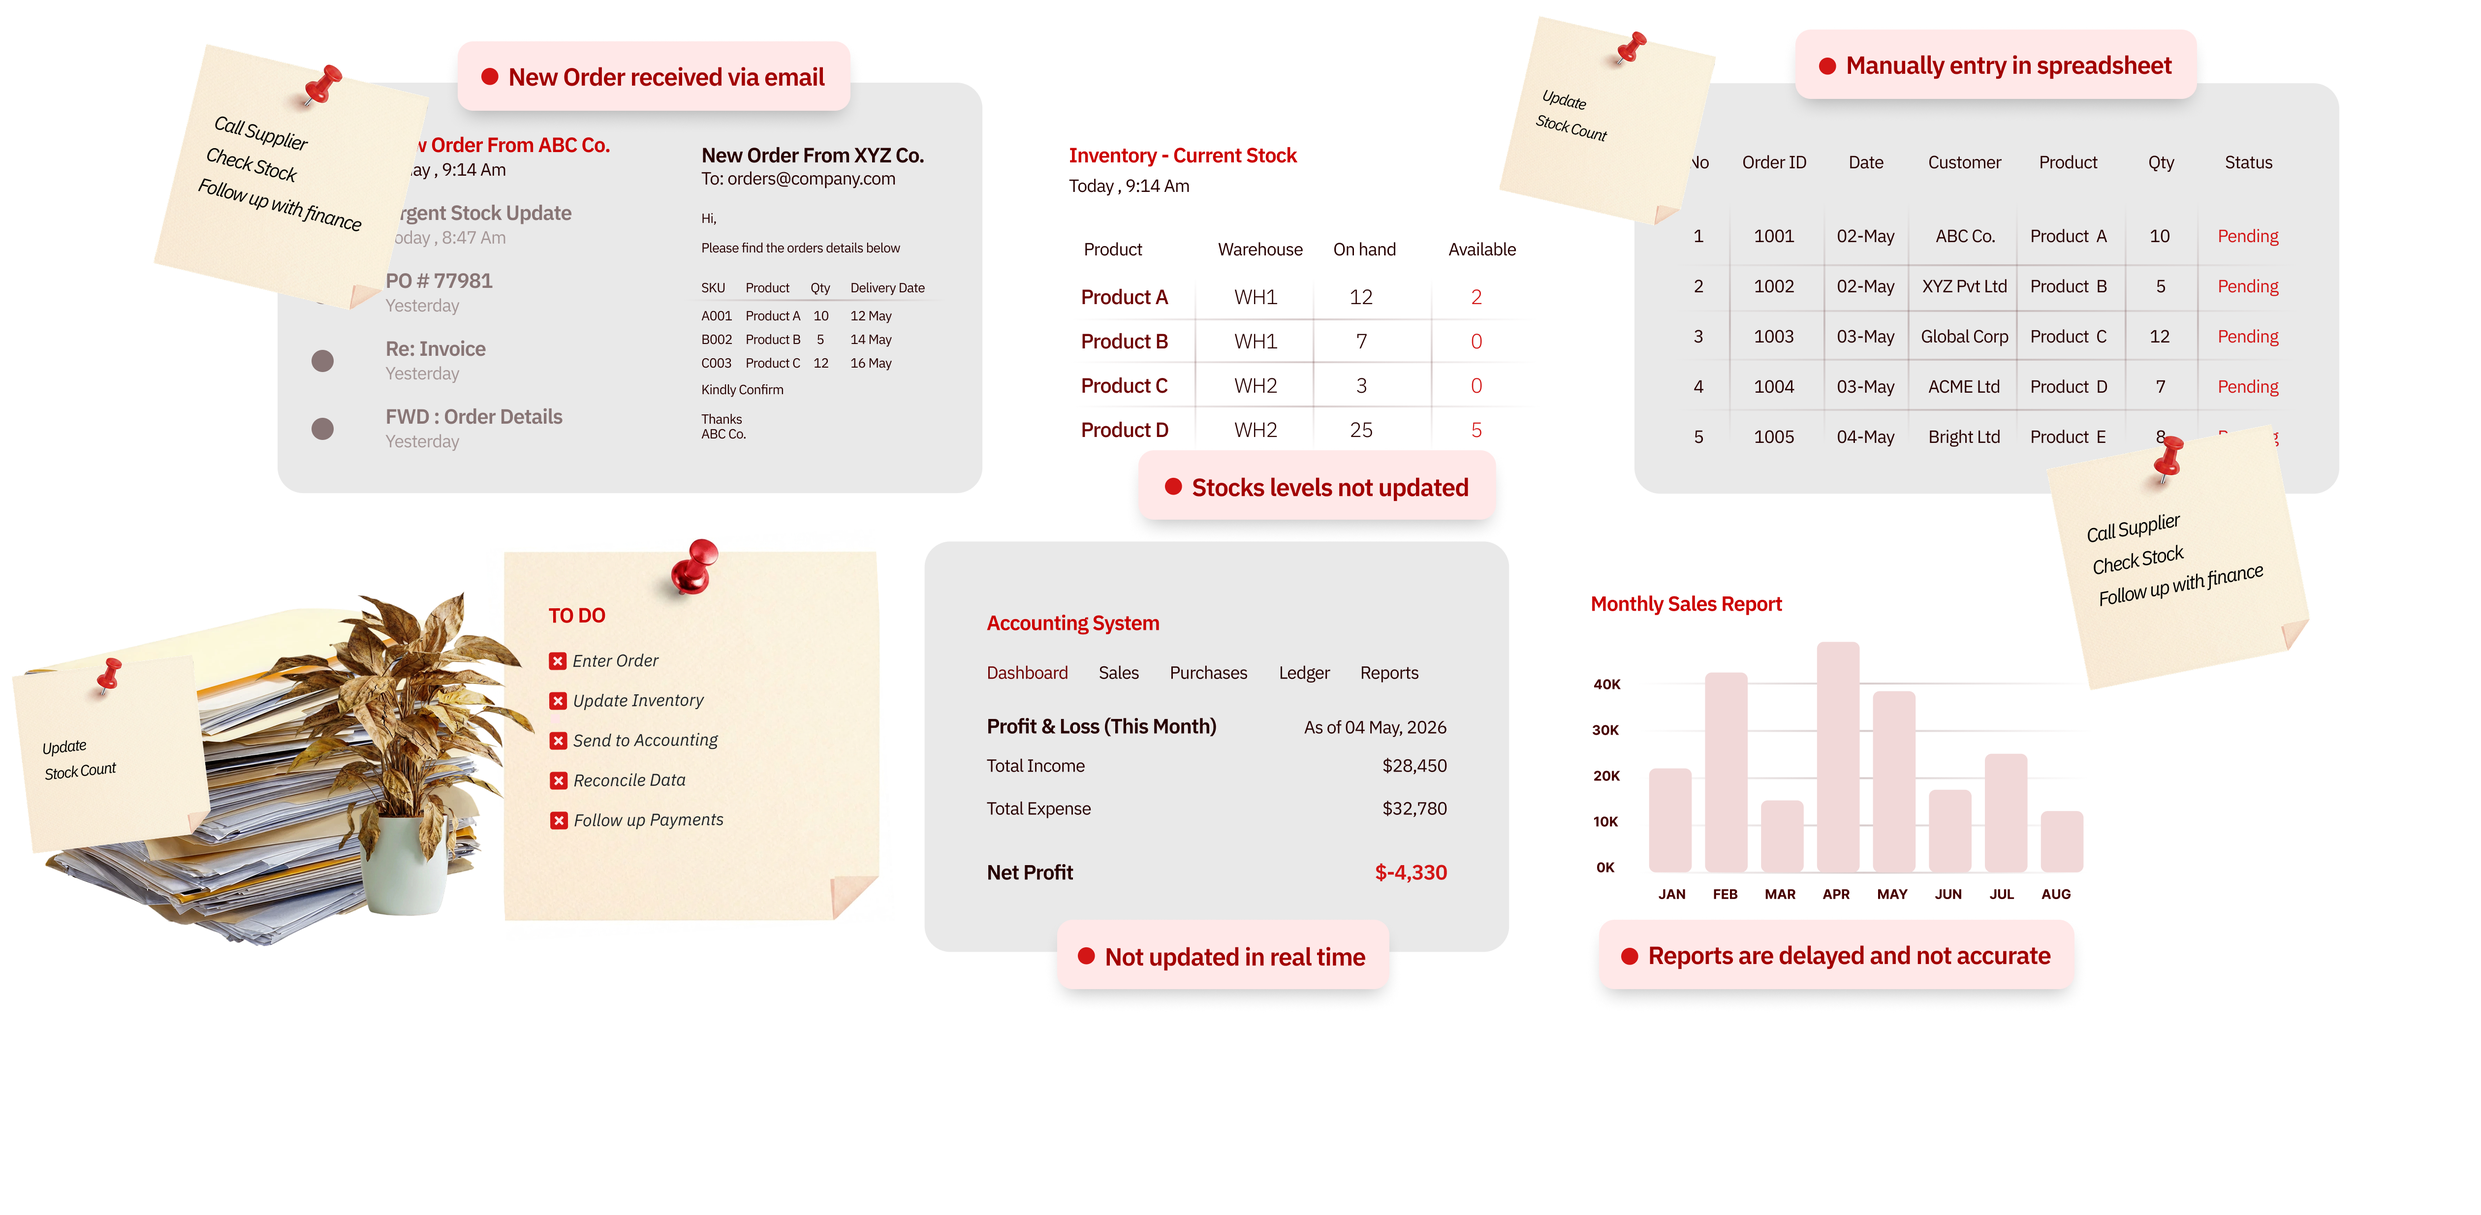
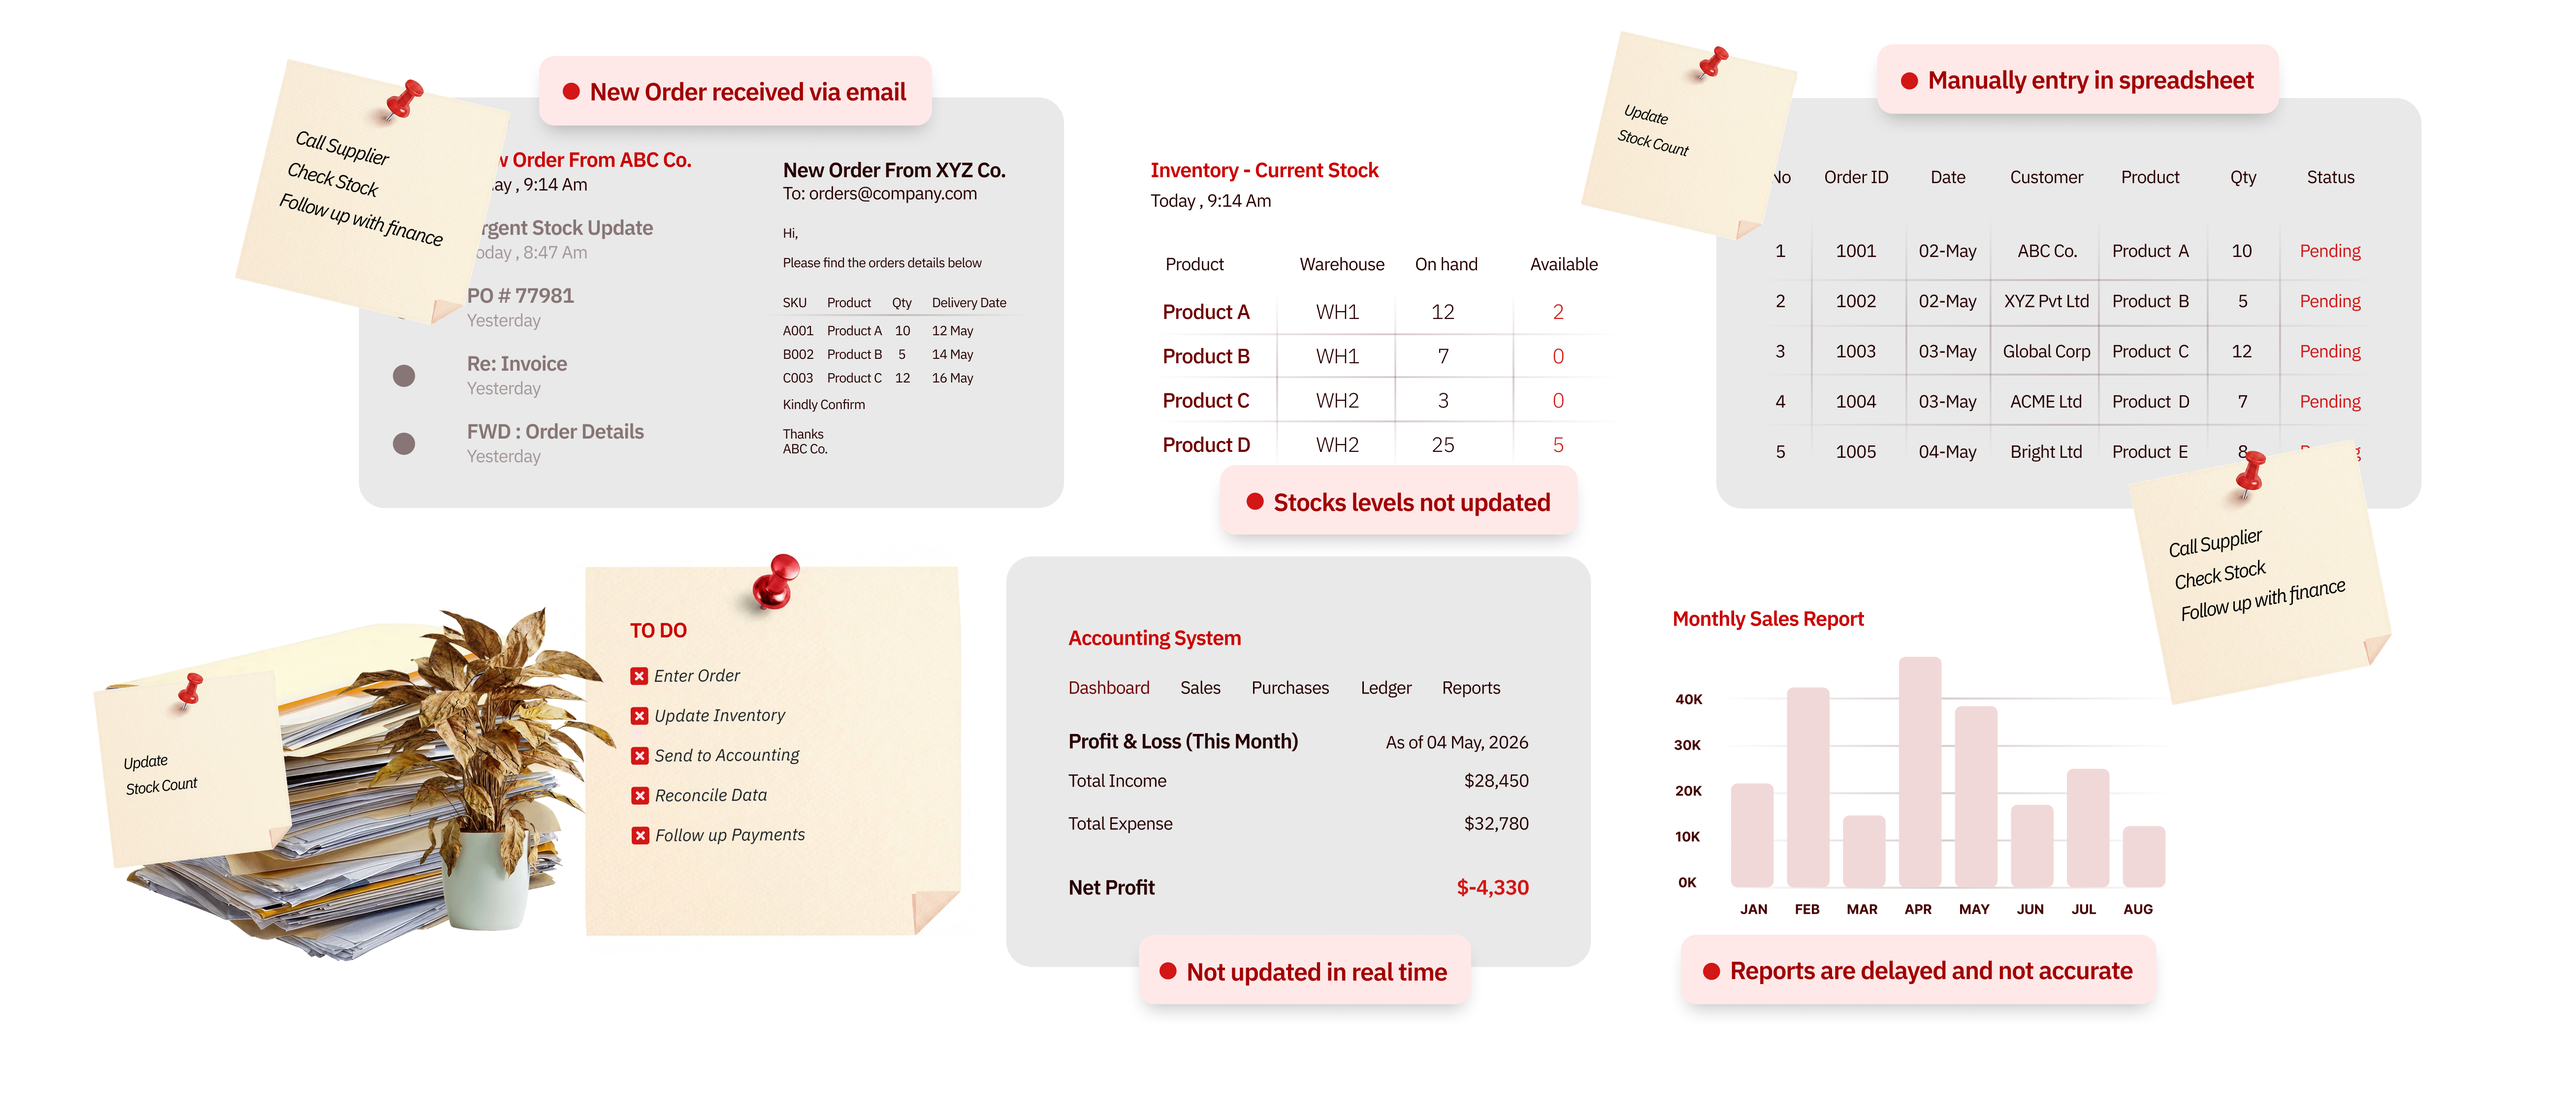
Feedback done 4

diff --git a/resources/views/components/footer.blade.php b/resources/views/components/footer.blade.php
@@ -128,8 +128,6 @@
     ];
 
     $modules = [
-        ['name' => 'Compliance & Traceability', 'icon' => 'fa-clipboard-check', 'slug' => 'compliance'],
-        ['name' => 'Contracts & Progress Claims', 'icon' => 'fa-file-signature', 'slug' => 'contracts'],
         ['name' => 'Customer Management', 'icon' => 'fa-users-gear', 'slug' => 'crm'],
         ['name' => 'Finance & Accounting', 'icon' => 'fa-calculator', 'slug' => 'finance'],
         ['name' => 'Inventory Management', 'icon' => 'fa-boxes-stacked', 'slug' => 'inventory'],
@@ -141,10 +139,12 @@
         ['name' => 'Quoting & Estimating', 'icon' => 'fa-file-lines', 'slug' => 'quoting-and-estimating'],
         ['name' => 'Resource Planning', 'icon' => 'fa-calendar-check', 'slug' => 'resource-planning'],
         ['name' => 'Scheduling & Dispatch', 'icon' => 'fa-clock-rotate-left', 'slug' => 'scheduling-dispatch'],
-        ['name' => 'Subcontractor Management', 'icon' => 'fa-user-group', 'slug' => 'subcontractor-management'],
         ['name' => 'Time Tracking & Billing', 'icon' => 'fa-stopwatch', 'slug' => 'time-tracking'],
         ['name' => 'Variation Management', 'icon' => 'fa-code-branch', 'slug' => 'variations'],
         ['name' => 'Warehouse Management', 'icon' => 'fa-warehouse', 'slug' => 'warehouse-management'],
+        ['name' => 'Subcontractor', 'icon' => 'fa-user-group', 'slug' => 'subcontractor-management'],
+        ['name' => 'Contracts & Progress', 'icon' => 'fa-file-signature', 'slug' => 'contracts'],
+        ['name' => 'Compliance', 'icon' => 'fa-clipboard-check', 'slug' => 'compliance'],
     ];
 
     $companyName = env('COMPANY_NAME','BEGIN360 PTY LTD');
@@ -248,9 +248,9 @@
                             <i class="fa-solid fa-phone text-accent me-2"></i> {{ $phone }}
                         </a>
                     </p>
-                    <p class="mb-0">
+                    <p class="mb-0">    
                         <a href="https://abr.business.gov.au/ABN/View?abn={{ str_replace(' ', '', $abn) }}" target="_blank" class="text-decoration-none text-secondary hover-white">
-                            <i class="fa-solid fa-file-invoice text-accent me-2"></i> ABN {{ $abn }}
+                            <span class="text-accent fw-bold small font-monospace me-2">ABN</span> {{ str_replace(' ','',trim($abn)) }}
                         </a>
                     </p>
                 </div>

diff --git a/resources/views/home.blade.php b/resources/views/home.blade.php
@@ -286,7 +286,7 @@
     }
     
     .problem-icon-container {
-        height: 400px;
+        height: 240px;
     }
 
 </style>
@@ -560,6 +560,7 @@
                     </div>
                 </div>
                 <div class="col-lg-6 position-relative min-vh-50 d-none d-lg-flex align-items-center justify-content-center" id="erpAether">
+                    <img src="{{asset('assets/images/hero-section.png')}}" class="img-fluid" alt=""/>
     
                     <!-- <div class="floating-assets-container w-100 position-relative active-state" id="clutteredScatter" style="height: 600px;">
                         
@@ -646,7 +647,7 @@
                         </div>
 
                     </div> -->
-                <x-chaos-to-clarity logoText="Begin" interval="1600" class="rounded-4" />
+                <!-- <x-chaos-to-clarity logoText="Begin" interval="1600" class="rounded-4" /> -->
 
                 </div>
             </div>
@@ -675,8 +676,8 @@
                 <div class="row flex-nowrap flex-md-wrap g-4">
                     @foreach($bottlenecks as $index => $item)
                         <div class="col-10 col-md-3">
-                            <div class="card h-100 border-light-subtle shadow-sm p-4 rounded-4">
-                                <div class="mb-4">
+                            <div class="card h-lg-100 border-light-subtle shadow-sm p-4 rounded-4">
+                                <div class="mb-lg-4">
                                     <span class="badge rounded-pill bg-accent text-black px-3">
                                         {{ str_pad($index + 1, 2, '0', STR_PAD_LEFT) }}
                                     </span>

diff --git a/resources/views/components/bottleneck-component.blade.php b/resources/views/components/bottleneck-component.blade.php
@@ -27,7 +27,7 @@
         }
 
         .problem-card {
-            width: 350px;
+            width: 380px;
             min-height: 550px;
         }
 
@@ -113,7 +113,7 @@
                         </div>
 
                         <div class="card-icon-area my-auto py-4">
-                            <img src="{{ $card['img'] }}" class="img-fluid" alt="{{ $card['title'] }}" style="max-height: 300px;">
+                            <img src="{{ $card['img'] }}" class="img-fluid" alt="{{ $card['title'] }}" style="max-height: 270px;">
                         </div>
 
                         <div class="mt-auto w-100">
@@ -153,7 +153,7 @@
                                         @endforeach
                                     </div>
 
-                                    <img src="{{ $sectionData['transformation'][$state]['img'] }}" class="img-fluid {{ $state === 'after' ? 'shadow-lg rounded-4 border' : '' }}" alt="Visual" style="max-height: 400px; object-fit: contain;">
+                                    <img src="{{ $sectionData['transformation'][$state]['img'] }}" class="img-fluid shadow-lg rounded-5 {{ $state === 'after' ? '' : '' }}" alt="Visual" style="max-height: 400px; object-fit: contain;">
                                 </div>
                             </div>
                         </div>

diff --git a/resources/views/components/process-stepper.blade.php b/resources/views/components/process-stepper.blade.php
@@ -200,12 +200,12 @@
         <div id="horizontal-track">
             @foreach($steps as $index => $step)
                 <div class="step-slide p-1">
-                    <div class="content-card-inner bg-body rounded-4 px-5 py-3">
+                    <div class="content-card-inner bg-body rounded-4 px-5 py-3" style="height:200px;">
                         <h3 class="badge bg-accent fw-semibold text-uppercase text-black rounded-pill mb-1 small">0{{ $index + 1 }}. {{ $step['title'] }}</h3>
                         <h2 class="fs-6 text-body mb-2 small d-none d-lg-block">{{ $step['subtitle'] }}</h2>
                         <p class="small text-secondary fw-normal">{{$step['description']}}</p>
                         
-                        <div class="d-flex flex-wrap justify-content-center gap-2">
+                        <div class="d-none d-md-flex flex-wrap justify-content-center gap-2">
                             @foreach($step['bullets'] as $bullet)
                                 <span class="small fw-semibold text-body px-3 py-1 rounded-pill bg-body-tertiary bg-opacity-5 border border-white border-opacity-10" style="font-size: 0.75rem;">
                                     <i class="fa-solid fa-check text-accent me-2"></i> {{ $bullet }}

diff --git a/resources/views/layouts/app.blade.php b/resources/views/layouts/app.blade.php
@@ -45,7 +45,7 @@
             <x-header />
         </header>
 
-        <main>
+        <main class="overflow-x-hidden">
             @yield('content')
         </main>
 
